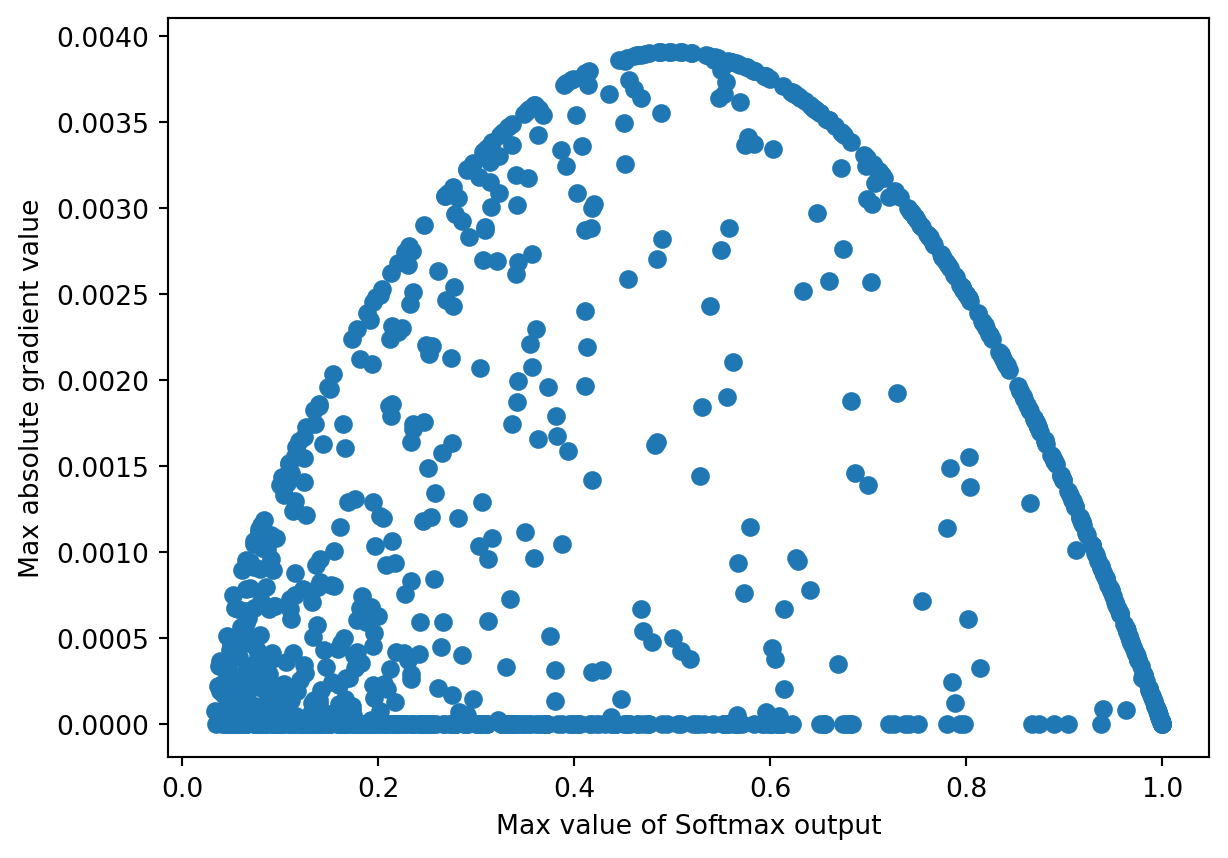
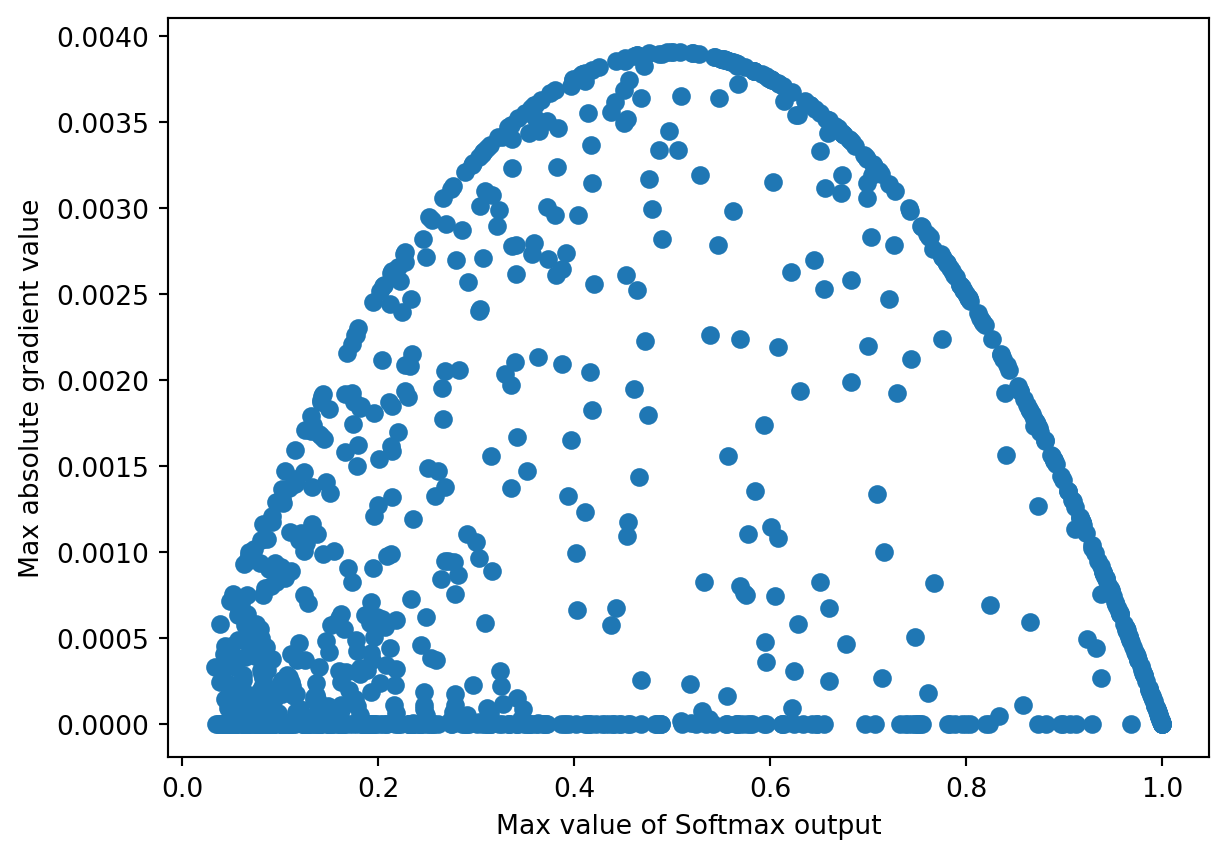
fix citation

diff --git a/multi_head_20240311.html b/multi_head_20240311.html
@@ -228,8 +228,8 @@
 <div class="page-columns page-rows-contents page-layout-article" id="quarto-content">
 <main class="content" id="quarto-document-content">
 
-<p>自從 “Attention is All You need” <span class="citation" data-cites="vaswani_attention_2017">[@vaswani_attention_2017]</span> 這篇文章發佈之後，注意力機制開始廣爲人知。雖然一開始注意力機制被應用於自然語言處理領域，但人們很快發現它也能夠用於處理圖像、點雲等數據結構，並且取得非常好的效果。</p>
-<p>本文介紹如何用 PyTorch 實現文章 <span class="citation" data-cites="vaswani_attention_2017">[@vaswani_attention_2017]</span> 提出的 multi-head attention（MHA）。MHA 是 scaled dot-product attention（SDPA）<span class="citation" data-cites="vaswani_attention_2017 Bahdanau2014NeuralMT">[@vaswani_attention_2017; @Bahdanau2014NeuralMT]</span> 的改進。既然 MHA 是 SDPA 的 multi-head 版，那麼也許將 SDPA 稱爲單頭注意力會比較形象。讓我們先從單頭注意力開始。</p>
+<p>自從 “Attention is All You need” <span class="citation" data-cites="vaswani_attention_2017"><a href="#ref-vaswani_attention_2017" role="doc-biblioref">[1]</a></span> 這篇文章發佈之後，注意力機制開始廣爲人知。雖然一開始注意力機制被應用於自然語言處理領域，但人們很快發現它也能夠用於處理圖像、點雲等數據結構，並且取得非常好的效果。</p>
+<p>本文介紹如何用 PyTorch 實現文章 <span class="citation" data-cites="vaswani_attention_2017"><a href="#ref-vaswani_attention_2017" role="doc-biblioref">[1]</a></span> 提出的 multi-head attention（MHA）。MHA 是 scaled dot-product attention（SDPA）<span class="citation" data-cites="vaswani_attention_2017 Bahdanau2014NeuralMT"><a href="#ref-vaswani_attention_2017" role="doc-biblioref">[1]</a>, <a href="#ref-Bahdanau2014NeuralMT" role="doc-biblioref">[2]</a></span> 的改進。既然 MHA 是 SDPA 的 multi-head 版，那麼也許將 SDPA 稱爲單頭注意力會比較形象。讓我們先從單頭注意力開始。</p>
 <section class="level2" id="scaled-dot-product-attention">
 <h2 class="anchored" data-anchor-id="scaled-dot-product-attention">Scaled Dot-product Attention</h2>
 <p>SDPA 的計算公式如下：</p>
@@ -264,11 +264,11 @@
 <span id="cb1-19"><a aria-hidden="true" href="#cb1-19" tabindex="-1"></a>ax.set_xticklabels([<span class="ss">f'</span><span class="sc">{</span>i<span class="sc">:.2f}</span><span class="ss">'</span> <span class="cf">for</span> s, i <span class="kw">in</span> samples])</span>
 <span id="cb1-20"><a aria-hidden="true" href="#cb1-20" tabindex="-1"></a>fig.colorbar(cax)<span class="op">;</span></span></code><button class="code-copy-button" title="Copy to Clipboard"><i class="bi"></i></button></pre></div>
 <div class="cell-output cell-output-stderr">
-<pre><code>/tmp/ipykernel_3631103/3983590926.py:13: DeprecationWarning:
+<pre><code>/tmp/ipykernel_3636085/3983590926.py:13: DeprecationWarning:
 
 __array__ implementation doesn't accept a copy keyword, so passing copy=False failed. __array__ must implement 'dtype' and 'copy' keyword arguments. To learn more, see the migration guide https://numpy.org/devdocs/numpy_2_0_migration_guide.html#adapting-to-changes-in-the-copy-keyword
 
-/tmp/ipykernel_3631103/3983590926.py:19: UserWarning:
+/tmp/ipykernel_3636085/3983590926.py:19: UserWarning:
 
 set_ticklabels() should only be used with a fixed number of ticks, i.e. after set_ticks() or using a FixedLocator.
 </code></pre>
@@ -392,7 +392,7 @@ Figure 2: 圖像的橫軸爲 Softmax 的輸出最大值。當該數值接近最
 <p>在充分理解清楚 SDPA 的計算公式的前提下，用 PyTorch 實現它就不困難。需要注意的是 <a class="quarto-xref" href="#eq-sdpa">Equation 1</a> 中沒有體現 attention mask，但我們要在代碼實現中支持它。attention mask 用於在訓練中阻止模型看到未來的 token，這對訓練聊天機器人、機器翻譯模型等生成式模型是必要的。</p>
 <p>在實現中，<code>mask</code> 矩陣的值會被加到注意力矩陣上。如果 <code>mask</code> 矩陣中有一個值非常小（接近 <span class="math inline">\(-\infty\)</span>），那麼對應的注意力就會在 <code>softmax</code> 中被抑制。</p>
 <p>下列代碼實現了 scaled dot-product attention：</p>
-<div class="cell" data-execution_count="3" id="ca764a75">
+<div class="cell" data-execution_count="3" id="b696023c">
 <div class="sourceCode cell-code" id="cb4"><pre class="sourceCode python code-with-copy"><code class="sourceCode python"><span id="cb4-1"><a aria-hidden="true" href="#cb4-1" tabindex="-1"></a><span class="im">import</span> torch</span>
 <span id="cb4-2"><a aria-hidden="true" href="#cb4-2" tabindex="-1"></a><span class="im">import</span> torch.nn <span class="im">as</span> nn</span>
 <span id="cb4-3"><a aria-hidden="true" href="#cb4-3" tabindex="-1"></a><span class="im">import</span> torch.nn.functional <span class="im">as</span> F</span>
@@ -410,7 +410,7 @@ Figure 2: 圖像的橫軸爲 Softmax 的輸出最大值。當該數值接近最
 <span id="cb4-15"><a aria-hidden="true" href="#cb4-15" tabindex="-1"></a>    <span class="cf">return</span> ret, attn_weights</span></code><button class="code-copy-button" title="Copy to Clipboard"><i class="bi"></i></button></pre></div>
 </div>
 <p>讓我們看看實現的 <code>my_scaled_dot_product_attention</code> 函數能不能正常運行：</p>
-<div class="cell" data-execution_count="4" id="84cbeab8">
+<div class="cell" data-execution_count="4" id="c7f01d53">
 <div class="sourceCode cell-code" id="cb5"><pre class="sourceCode python code-with-copy"><code class="sourceCode python"><span id="cb5-1"><a aria-hidden="true" href="#cb5-1" tabindex="-1"></a>batch_size <span class="op">=</span> <span class="dv">1</span></span>
 <span id="cb5-2"><a aria-hidden="true" href="#cb5-2" tabindex="-1"></a>length <span class="op">=</span> <span class="dv">2</span></span>
 <span id="cb5-3"><a aria-hidden="true" href="#cb5-3" tabindex="-1"></a>embed_dim <span class="op">=</span> <span class="dv">4</span></span>
@@ -422,14 +422,14 @@ Figure 2: 圖像的橫軸爲 Softmax 的輸出最大值。當該數值接近最
 <span id="cb5-9"><a aria-hidden="true" href="#cb5-9" tabindex="-1"></a><span class="bu">print</span>(<span class="st">'attention 操作返回結果：'</span>, ret)</span>
 <span id="cb5-10"><a aria-hidden="true" href="#cb5-10" tabindex="-1"></a><span class="bu">print</span>(<span class="st">'attention 矩陣爲：'</span>, attn_weights)</span></code><button class="code-copy-button" title="Copy to Clipboard"><i class="bi"></i></button></pre></div>
 <div class="cell-output cell-output-stdout">
-<pre><code>attention 操作返回結果： tensor([[[0.1517, 0.4868, 0.3622, 0.5209],
-         [0.2097, 0.4212, 0.5240, 0.5255]]])
-attention 矩陣爲： tensor([[[0.4420, 0.5580],
-         [0.6800, 0.3200]]])</code></pre>
+<pre><code>attention 操作返回結果： tensor([[[0.1592, 0.2905, 0.4648, 0.5226],
+         [0.1702, 0.2726, 0.4972, 0.5158]]])
+attention 矩陣爲： tensor([[[0.4483, 0.5517],
+         [0.4844, 0.5156]]])</code></pre>
 </div>
 </div>
 <p>一個檢查實現正確性的小技巧是，觀察返回 attention 矩陣的各列之和是否爲 1。如果不爲 1，說明實現有問題。</p>
-<div class="cell" data-execution_count="5" id="1756688d">
+<div class="cell" data-execution_count="5" id="bb874d77">
 <div class="sourceCode cell-code" id="cb7"><pre class="sourceCode python code-with-copy"><code class="sourceCode python"><span id="cb7-1"><a aria-hidden="true" href="#cb7-1" tabindex="-1"></a><span class="cf">assert</span> torch.<span class="bu">all</span>(attn_weights.<span class="bu">sum</span>(<span class="op">-</span><span class="dv">1</span>) <span class="op">-</span> <span class="dv">1</span> <span class="op">&lt;</span> <span class="fl">1e-6</span>)</span></code><button class="code-copy-button" title="Copy to Clipboard"><i class="bi"></i></button></pre></div>
 </div>
 <p>在準備好 scaled dot product attention 的基礎上，我們便可以着手實現 multi-head attention 了。</p>
@@ -447,7 +447,7 @@ attention 矩陣爲： tensor([[[0.4420, 0.5580],
 </ol>
 <p>通過在多個 head 上執行 attention，MHA 允許模型在不同的子空間收集不同位置的信息，增加了 attention 機制的表達能力。</p>
 <p>代碼實現如下：</p>
-<div class="cell" data-execution_count="6" id="88f2b3d8">
+<div class="cell" data-execution_count="6" id="551b1788">
 <div class="sourceCode cell-code" id="cb8"><pre class="sourceCode python code-with-copy"><code class="sourceCode python"><span id="cb8-1"><a aria-hidden="true" href="#cb8-1" tabindex="-1"></a><span class="kw">class</span> MyMultiheadAttention(nn.Module):</span>
 <span id="cb8-2"><a aria-hidden="true" href="#cb8-2" tabindex="-1"></a>    <span class="kw">def</span> <span class="fu">__init__</span>(</span>
 <span id="cb8-3"><a aria-hidden="true" href="#cb8-3" tabindex="-1"></a>        <span class="va">self</span>,</span>
@@ -491,7 +491,7 @@ attention 矩陣爲： tensor([[[0.4420, 0.5580],
 <span id="cb8-41"><a aria-hidden="true" href="#cb8-41" tabindex="-1"></a>        <span class="cf">return</span> out, attn_weights</span></code><button class="code-copy-button" title="Copy to Clipboard"><i class="bi"></i></button></pre></div>
 </div>
 <p>首先，我們先比較一下本文實現的 multi-head attention 和 torch 官方實現的參數設置。我們將會看到所有參數名稱和參數尺寸都是一致的。這表明我們的 multi-head attention 與 torch 的官方實現兼容。</p>
-<div class="cell" data-execution_count="7" id="6c33cd56">
+<div class="cell" data-execution_count="7" id="d1bea707">
 <div class="sourceCode cell-code" id="cb9"><pre class="sourceCode python code-with-copy"><code class="sourceCode python"><span id="cb9-1"><a aria-hidden="true" href="#cb9-1" tabindex="-1"></a>batch_size <span class="op">=</span> <span class="dv">2</span></span>
 <span id="cb9-2"><a aria-hidden="true" href="#cb9-2" tabindex="-1"></a>embed_dim <span class="op">=</span> <span class="dv">16</span></span>
 <span id="cb9-3"><a aria-hidden="true" href="#cb9-3" tabindex="-1"></a>num_heads <span class="op">=</span> <span class="dv">4</span></span>
@@ -516,14 +516,14 @@ out_proj.bias torch.Size([16])</code></pre>
 </div>
 </div>
 <p>接下來，我們檢查我們實現的 MHA 和 torch 版本 MHA 的輸出是否完全一致。在進行比較之前，我們先進行參數的複製，保持兩個模塊的參數完全相同。</p>
-<div class="cell" data-execution_count="8" id="06b83ab0">
+<div class="cell" data-execution_count="8" id="b10a76e1">
 <div class="sourceCode cell-code" id="cb11"><pre class="sourceCode python code-with-copy"><code class="sourceCode python"><span id="cb11-1"><a aria-hidden="true" href="#cb11-1" tabindex="-1"></a>my_mha_parameters <span class="op">=</span> <span class="bu">dict</span>(my_mha.named_parameters())</span>
 <span id="cb11-2"><a aria-hidden="true" href="#cb11-2" tabindex="-1"></a><span class="cf">for</span> n, p <span class="kw">in</span> torch_mha.named_parameters():</span>
 <span id="cb11-3"><a aria-hidden="true" href="#cb11-3" tabindex="-1"></a>    my_mha_parameters[n].data.copy_(p)</span>
 <span id="cb11-4"><a aria-hidden="true" href="#cb11-4" tabindex="-1"></a>    <span class="cf">assert</span> torch.<span class="bu">all</span>(p <span class="op">==</span> my_mha_parameters[n])</span></code><button class="code-copy-button" title="Copy to Clipboard"><i class="bi"></i></button></pre></div>
 </div>
 <p>下列代碼對函數的輸出進行檢查：</p>
-<div class="cell" data-execution_count="9" id="f1287978">
+<div class="cell" data-execution_count="9" id="2391b7f8">
 <div class="sourceCode cell-code" id="cb12"><pre class="sourceCode python code-with-copy"><code class="sourceCode python"><span id="cb12-1"><a aria-hidden="true" href="#cb12-1" tabindex="-1"></a>query <span class="op">=</span> torch.rand((length, batch_size, embed_dim))</span>
 <span id="cb12-2"><a aria-hidden="true" href="#cb12-2" tabindex="-1"></a>key <span class="op">=</span> torch.rand((length, batch_size, embed_dim))</span>
 <span id="cb12-3"><a aria-hidden="true" href="#cb12-3" tabindex="-1"></a>value <span class="op">=</span> torch.rand((length, batch_size, embed_dim))</span>
@@ -574,7 +574,7 @@ out_proj.bias torch.Size([16])</code></pre>
 <div class="callout-body-container callout-body">
 <p>MHA 的參數量與 head 的數量無關，這從代碼中也能很容易看出來。</p>
 <p>實驗也驗證了這一點。</p>
-<div class="cell" data-execution_count="10" id="3d038e0b">
+<div class="cell" data-execution_count="10" id="97dbf0ab">
 <div class="sourceCode cell-code" id="cb14"><pre class="sourceCode python code-with-copy"><code class="sourceCode python"><span id="cb14-1"><a aria-hidden="true" href="#cb14-1" tabindex="-1"></a>embed_dim <span class="op">=</span> <span class="dv">16</span></span>
 <span id="cb14-2"><a aria-hidden="true" href="#cb14-2" tabindex="-1"></a>num_heads <span class="op">=</span> <span class="dv">4</span></span>
 <span id="cb14-3"><a aria-hidden="true" href="#cb14-3" tabindex="-1"></a>mha1 <span class="op">=</span> nn.MultiheadAttention(embed_dim, num_heads)</span>
@@ -633,13 +633,22 @@ out_proj.bias torch.Size([16])</code></pre>
 <p>推薦閱讀：</p>
 <ul>
 <li><a href="https://pytorch.org/docs/2.2/generated/torch.nn.functional.scaled_dot_product_attention.html#torch.nn.functional.scaled_dot_product_attention">torch 官方的 scaled dot-product attention 文檔</a>中簡要介紹了一種 scaled dot-product attention 的 Python 實現方式。</li>
-<li>論文 MQA <span class="citation" data-cites="Shazeer2019MQA">[@Shazeer2019MQA]</span> 中的 Background 一節對各類 Attention 有詳細介紹，推薦一讀。</li>
+<li>論文 MQA <span class="citation" data-cites="Shazeer2019MQA"><a href="#ref-Shazeer2019MQA" role="doc-biblioref">[3]</a></span> 中的 Background 一節對各類 Attention 有詳細介紹，推薦一讀。</li>
 </ul>
 </section>
-<section class="level2" id="參考文獻">
-<h2 class="anchored" data-anchor-id="參考文獻">參考文獻</h2>
+<section class="level2 unnumbered" id="參考文獻">
 </section>
-</main>
+<div class="default" id="quarto-appendix"><section class="quarto-appendix-contents" id="quarto-bibliography" role="doc-bibliography"><h2 class="anchored quarto-appendix-heading">參考文獻</h2><div class="references csl-bib-body" data-entry-spacing="0" id="refs" role="list">
+<div class="csl-entry" id="ref-vaswani_attention_2017" role="listitem">
+<div class="csl-left-margin">[1] </div><div class="csl-right-inline">A. Vaswani <em>et al.</em>, <span>“Attention is all you need,”</span> <em>Advances in Neural Information Processing Systems</em>, vol. 30, 2017, Available: <a href="https://arxiv.org/abs/1706.03762">https://arxiv.org/abs/1706.03762</a></div>
+</div>
+<div class="csl-entry" id="ref-Bahdanau2014NeuralMT" role="listitem">
+<div class="csl-left-margin">[2] </div><div class="csl-right-inline">D. Bahdanau, K. Cho, and Y. Bengio, <span>“Neural machine translation by jointly learning to align and translate,”</span> <em>arXiv preprint arXiv:1409.0473</em>, 2014, Available: <a href="https://arxiv.org/abs/1409.0473">https://arxiv.org/abs/1409.0473</a></div>
+</div>
+<div class="csl-entry" id="ref-Shazeer2019MQA" role="listitem">
+<div class="csl-left-margin">[3] </div><div class="csl-right-inline">N. Shazeer, <span>“Fast transformer decoding: One write-head is all you need,”</span> <em>arXiv preprint arXiv:1911.02150</em>, 2019, Available: <a href="https://arxiv.org/abs/1911.02150">https://arxiv.org/abs/1911.02150</a></div>
+</div>
+</div></section></div></main>
 <!-- /main column -->
 <script id="quarto-html-after-body" type="application/javascript">
 window.document.addEventListener("DOMContentLoaded", function (event) {

diff --git a/multi_head_20240311_zh-cn.html b/multi_head_20240311_zh-cn.html
@@ -228,8 +228,8 @@
 <div class="page-columns page-rows-contents page-layout-article" id="quarto-content">
 <main class="content" id="quarto-document-content">
 
-<p>自从 “Attention is All You need” <span class="citation" data-cites="vaswani_attention_2017">[@vaswani_attention_2017]</span> 这篇文章发布之后，注意力机制开始广为人知。虽然一开始注意力机制被应用于自然语言处理领域，但人们很快发现它也能够用于处理图像、点云等数据结构，并且取得非常好的效果。</p>
-<p>本文介绍如何用 PyTorch 实现文章 <span class="citation" data-cites="vaswani_attention_2017">[@vaswani_attention_2017]</span> 提出的 multi-head attention（MHA）。MHA 是 scaled dot-product attention（SDPA）<span class="citation" data-cites="vaswani_attention_2017 Bahdanau2014NeuralMT">[@vaswani_attention_2017; @Bahdanau2014NeuralMT]</span> 的改进。既然 MHA 是 SDPA 的 multi-head 版，那么也许将 SDPA 称为单头注意力会比较形象。让我们先从单头注意力开始。</p>
+<p>自从 “Attention is All You need” <span class="citation" data-cites="vaswani_attention_2017"><a href="#ref-vaswani_attention_2017" role="doc-biblioref">[1]</a></span> 这篇文章发布之后，注意力机制开始广为人知。虽然一开始注意力机制被应用于自然语言处理领域，但人们很快发现它也能够用于处理图像、点云等数据结构，并且取得非常好的效果。</p>
+<p>本文介绍如何用 PyTorch 实现文章 <span class="citation" data-cites="vaswani_attention_2017"><a href="#ref-vaswani_attention_2017" role="doc-biblioref">[1]</a></span> 提出的 multi-head attention（MHA）。MHA 是 scaled dot-product attention（SDPA）<span class="citation" data-cites="vaswani_attention_2017 Bahdanau2014NeuralMT"><a href="#ref-vaswani_attention_2017" role="doc-biblioref">[1]</a>, <a href="#ref-Bahdanau2014NeuralMT" role="doc-biblioref">[2]</a></span> 的改进。既然 MHA 是 SDPA 的 multi-head 版，那么也许将 SDPA 称为单头注意力会比较形象。让我们先从单头注意力开始。</p>
 <section class="level2" id="scaled-dot-product-attention">
 <h2 class="anchored" data-anchor-id="scaled-dot-product-attention">Scaled Dot-product Attention</h2>
 <p>SDPA 的计算公式如下：</p>
@@ -264,11 +264,11 @@
 <span id="cb1-19"><a aria-hidden="true" href="#cb1-19" tabindex="-1"></a>ax.set_xticklabels([<span class="ss">f'</span><span class="sc">{</span>i<span class="sc">:.2f}</span><span class="ss">'</span> <span class="cf">for</span> s, i <span class="kw">in</span> samples])</span>
 <span id="cb1-20"><a aria-hidden="true" href="#cb1-20" tabindex="-1"></a>fig.colorbar(cax)<span class="op">;</span></span></code><button class="code-copy-button" title="Copy to Clipboard"><i class="bi"></i></button></pre></div>
 <div class="cell-output cell-output-stderr">
-<pre><code>/tmp/ipykernel_3631103/3983590926.py:13: DeprecationWarning:
+<pre><code>/tmp/ipykernel_3636085/3983590926.py:13: DeprecationWarning:
 
 __array__ implementation doesn't accept a copy keyword, so passing copy=False failed. __array__ must implement 'dtype' and 'copy' keyword arguments. To learn more, see the migration guide https://numpy.org/devdocs/numpy_2_0_migration_guide.html#adapting-to-changes-in-the-copy-keyword
 
-/tmp/ipykernel_3631103/3983590926.py:19: UserWarning:
+/tmp/ipykernel_3636085/3983590926.py:19: UserWarning:
 
 set_ticklabels() should only be used with a fixed number of ticks, i.e. after set_ticks() or using a FixedLocator.
 </code></pre>
@@ -392,7 +392,7 @@ Figure 2: 图像的横轴为 Softmax 的输出最大值。当该数值接近最
 <p>在充分理解清楚 SDPA 的计算公式的前提下，用 PyTorch 实现它就不困难。需要注意的是 <a class="quarto-xref" href="#eq-sdpa">Equation 1</a> 中没有体现 attention mask，但我们要在代码实现中支持它。attention mask 用于在训练中阻止模型看到未来的 token，这对训练聊天机器人、机器翻译模型等生成式模型是必要的。</p>
 <p>在实现中，<code>mask</code> 矩阵的值会被加到注意力矩阵上。如果 <code>mask</code> 矩阵中有一个值非常小（接近 <span class="math inline">\(-\infty\)</span>），那么对应的注意力就会在 <code>softmax</code> 中被抑制。</p>
 <p>下列代码实现了 scaled dot-product attention：</p>
-<div class="cell" data-execution_count="3" id="ca764a75">
+<div class="cell" data-execution_count="3" id="b696023c">
 <div class="sourceCode cell-code" id="cb4"><pre class="sourceCode python code-with-copy"><code class="sourceCode python"><span id="cb4-1"><a aria-hidden="true" href="#cb4-1" tabindex="-1"></a><span class="im">import</span> torch</span>
 <span id="cb4-2"><a aria-hidden="true" href="#cb4-2" tabindex="-1"></a><span class="im">import</span> torch.nn <span class="im">as</span> nn</span>
 <span id="cb4-3"><a aria-hidden="true" href="#cb4-3" tabindex="-1"></a><span class="im">import</span> torch.nn.functional <span class="im">as</span> F</span>
@@ -410,7 +410,7 @@ Figure 2: 图像的横轴为 Softmax 的输出最大值。当该数值接近最
 <span id="cb4-15"><a aria-hidden="true" href="#cb4-15" tabindex="-1"></a>    <span class="cf">return</span> ret, attn_weights</span></code><button class="code-copy-button" title="Copy to Clipboard"><i class="bi"></i></button></pre></div>
 </div>
 <p>让我们看看实现的 <code>my_scaled_dot_product_attention</code> 函数能不能正常运行：</p>
-<div class="cell" data-execution_count="4" id="84cbeab8">
+<div class="cell" data-execution_count="4" id="c7f01d53">
 <div class="sourceCode cell-code" id="cb5"><pre class="sourceCode python code-with-copy"><code class="sourceCode python"><span id="cb5-1"><a aria-hidden="true" href="#cb5-1" tabindex="-1"></a>batch_size <span class="op">=</span> <span class="dv">1</span></span>
 <span id="cb5-2"><a aria-hidden="true" href="#cb5-2" tabindex="-1"></a>length <span class="op">=</span> <span class="dv">2</span></span>
 <span id="cb5-3"><a aria-hidden="true" href="#cb5-3" tabindex="-1"></a>embed_dim <span class="op">=</span> <span class="dv">4</span></span>
@@ -422,14 +422,14 @@ Figure 2: 图像的横轴为 Softmax 的输出最大值。当该数值接近最
 <span id="cb5-9"><a aria-hidden="true" href="#cb5-9" tabindex="-1"></a><span class="bu">print</span>(<span class="st">'attention 操作返回结果：'</span>, ret)</span>
 <span id="cb5-10"><a aria-hidden="true" href="#cb5-10" tabindex="-1"></a><span class="bu">print</span>(<span class="st">'attention 矩阵为：'</span>, attn_weights)</span></code><button class="code-copy-button" title="Copy to Clipboard"><i class="bi"></i></button></pre></div>
 <div class="cell-output cell-output-stdout">
-<pre><code>attention 操作返回结果： tensor([[[0.1517, 0.4868, 0.3622, 0.5209],
-         [0.2097, 0.4212, 0.5240, 0.5255]]])
-attention 矩阵为： tensor([[[0.4420, 0.5580],
-         [0.6800, 0.3200]]])</code></pre>
+<pre><code>attention 操作返回结果： tensor([[[0.1592, 0.2905, 0.4648, 0.5226],
+         [0.1702, 0.2726, 0.4972, 0.5158]]])
+attention 矩阵为： tensor([[[0.4483, 0.5517],
+         [0.4844, 0.5156]]])</code></pre>
 </div>
 </div>
 <p>一个检查实现正确性的小技巧是，观察返回 attention 矩阵的各列之和是否为 1。如果不为 1，说明实现有问题。</p>
-<div class="cell" data-execution_count="5" id="1756688d">
+<div class="cell" data-execution_count="5" id="bb874d77">
 <div class="sourceCode cell-code" id="cb7"><pre class="sourceCode python code-with-copy"><code class="sourceCode python"><span id="cb7-1"><a aria-hidden="true" href="#cb7-1" tabindex="-1"></a><span class="cf">assert</span> torch.<span class="bu">all</span>(attn_weights.<span class="bu">sum</span>(<span class="op">-</span><span class="dv">1</span>) <span class="op">-</span> <span class="dv">1</span> <span class="op">&lt;</span> <span class="fl">1e-6</span>)</span></code><button class="code-copy-button" title="Copy to Clipboard"><i class="bi"></i></button></pre></div>
 </div>
 <p>在准备好 scaled dot product attention 的基础上，我们便可以着手实现 multi-head attention 了。</p>
@@ -447,7 +447,7 @@ attention 矩阵为： tensor([[[0.4420, 0.5580],
 </ol>
 <p>通过在多个 head 上执行 attention，MHA 允许模型在不同的子空间收集不同位置的信息，增加了 attention 机制的表达能力。</p>
 <p>代码实现如下：</p>
-<div class="cell" data-execution_count="6" id="88f2b3d8">
+<div class="cell" data-execution_count="6" id="551b1788">
 <div class="sourceCode cell-code" id="cb8"><pre class="sourceCode python code-with-copy"><code class="sourceCode python"><span id="cb8-1"><a aria-hidden="true" href="#cb8-1" tabindex="-1"></a><span class="kw">class</span> MyMultiheadAttention(nn.Module):</span>
 <span id="cb8-2"><a aria-hidden="true" href="#cb8-2" tabindex="-1"></a>    <span class="kw">def</span> <span class="fu">__init__</span>(</span>
 <span id="cb8-3"><a aria-hidden="true" href="#cb8-3" tabindex="-1"></a>        <span class="va">self</span>,</span>
@@ -491,7 +491,7 @@ attention 矩阵为： tensor([[[0.4420, 0.5580],
 <span id="cb8-41"><a aria-hidden="true" href="#cb8-41" tabindex="-1"></a>        <span class="cf">return</span> out, attn_weights</span></code><button class="code-copy-button" title="Copy to Clipboard"><i class="bi"></i></button></pre></div>
 </div>
 <p>首先，我们先比较一下本文实现的 multi-head attention 和 torch 官方实现的参数设置。我们将会看到所有参数名称和参数尺寸都是一致的。这表明我们的 multi-head attention 与 torch 的官方实现兼容。</p>
-<div class="cell" data-execution_count="7" id="6c33cd56">
+<div class="cell" data-execution_count="7" id="d1bea707">
 <div class="sourceCode cell-code" id="cb9"><pre class="sourceCode python code-with-copy"><code class="sourceCode python"><span id="cb9-1"><a aria-hidden="true" href="#cb9-1" tabindex="-1"></a>batch_size <span class="op">=</span> <span class="dv">2</span></span>
 <span id="cb9-2"><a aria-hidden="true" href="#cb9-2" tabindex="-1"></a>embed_dim <span class="op">=</span> <span class="dv">16</span></span>
 <span id="cb9-3"><a aria-hidden="true" href="#cb9-3" tabindex="-1"></a>num_heads <span class="op">=</span> <span class="dv">4</span></span>
@@ -516,14 +516,14 @@ out_proj.bias torch.Size([16])</code></pre>
 </div>
 </div>
 <p>接下来，我们检查我们实现的 MHA 和 torch 版本 MHA 的输出是否完全一致。在进行比较之前，我们先进行参数的复制，保持两个模块的参数完全相同。</p>
-<div class="cell" data-execution_count="8" id="06b83ab0">
+<div class="cell" data-execution_count="8" id="b10a76e1">
 <div class="sourceCode cell-code" id="cb11"><pre class="sourceCode python code-with-copy"><code class="sourceCode python"><span id="cb11-1"><a aria-hidden="true" href="#cb11-1" tabindex="-1"></a>my_mha_parameters <span class="op">=</span> <span class="bu">dict</span>(my_mha.named_parameters())</span>
 <span id="cb11-2"><a aria-hidden="true" href="#cb11-2" tabindex="-1"></a><span class="cf">for</span> n, p <span class="kw">in</span> torch_mha.named_parameters():</span>
 <span id="cb11-3"><a aria-hidden="true" href="#cb11-3" tabindex="-1"></a>    my_mha_parameters[n].data.copy_(p)</span>
 <span id="cb11-4"><a aria-hidden="true" href="#cb11-4" tabindex="-1"></a>    <span class="cf">assert</span> torch.<span class="bu">all</span>(p <span class="op">==</span> my_mha_parameters[n])</span></code><button class="code-copy-button" title="Copy to Clipboard"><i class="bi"></i></button></pre></div>
 </div>
 <p>下列代码对函数的输出进行检查：</p>
-<div class="cell" data-execution_count="9" id="f1287978">
+<div class="cell" data-execution_count="9" id="2391b7f8">
 <div class="sourceCode cell-code" id="cb12"><pre class="sourceCode python code-with-copy"><code class="sourceCode python"><span id="cb12-1"><a aria-hidden="true" href="#cb12-1" tabindex="-1"></a>query <span class="op">=</span> torch.rand((length, batch_size, embed_dim))</span>
 <span id="cb12-2"><a aria-hidden="true" href="#cb12-2" tabindex="-1"></a>key <span class="op">=</span> torch.rand((length, batch_size, embed_dim))</span>
 <span id="cb12-3"><a aria-hidden="true" href="#cb12-3" tabindex="-1"></a>value <span class="op">=</span> torch.rand((length, batch_size, embed_dim))</span>
@@ -574,7 +574,7 @@ out_proj.bias torch.Size([16])</code></pre>
 <div class="callout-body-container callout-body">
 <p>MHA 的参数量与 head 的数量无关，这从代码中也能很容易看出来。</p>
 <p>实验也验证了这一点。</p>
-<div class="cell" data-execution_count="10" id="3d038e0b">
+<div class="cell" data-execution_count="10" id="97dbf0ab">
 <div class="sourceCode cell-code" id="cb14"><pre class="sourceCode python code-with-copy"><code class="sourceCode python"><span id="cb14-1"><a aria-hidden="true" href="#cb14-1" tabindex="-1"></a>embed_dim <span class="op">=</span> <span class="dv">16</span></span>
 <span id="cb14-2"><a aria-hidden="true" href="#cb14-2" tabindex="-1"></a>num_heads <span class="op">=</span> <span class="dv">4</span></span>
 <span id="cb14-3"><a aria-hidden="true" href="#cb14-3" tabindex="-1"></a>mha1 <span class="op">=</span> nn.MultiheadAttention(embed_dim, num_heads)</span>
@@ -633,13 +633,22 @@ out_proj.bias torch.Size([16])</code></pre>
 <p>推荐阅读：</p>
 <ul>
 <li><a href="https://pytorch.org/docs/2.2/generated/torch.nn.functional.scaled_dot_product_attention.html#torch.nn.functional.scaled_dot_product_attention">torch 官方的 scaled dot-product attention 文档</a>中简要介绍了一种 scaled dot-product attention 的 Python 实现方式。</li>
-<li>论文 MQA <span class="citation" data-cites="Shazeer2019MQA">[@Shazeer2019MQA]</span> 中的 Background 一节对各类 Attention 有详细介绍，推荐一读。</li>
+<li>论文 MQA <span class="citation" data-cites="Shazeer2019MQA"><a href="#ref-Shazeer2019MQA" role="doc-biblioref">[3]</a></span> 中的 Background 一节对各类 Attention 有详细介绍，推荐一读。</li>
 </ul>
 </section>
-<section class="level2" id="參考文獻">
-<h2 class="anchored" data-anchor-id="參考文獻">参考文献</h2>
+<section class="level2 unnumbered" id="參考文獻">
 </section>
-</main>
+<div class="default" id="quarto-appendix"><section class="quarto-appendix-contents" id="quarto-bibliography" role="doc-bibliography"><h2 class="anchored quarto-appendix-heading">参考文献</h2><div class="references csl-bib-body" data-entry-spacing="0" id="refs" role="list">
+<div class="csl-entry" id="ref-vaswani_attention_2017" role="listitem">
+<div class="csl-left-margin">[1] </div><div class="csl-right-inline">A. Vaswani <em>et al.</em>, <span>“Attention is all you need,”</span> <em>Advances in Neural Information Processing Systems</em>, vol. 30, 2017, Available: <a href="https://arxiv.org/abs/1706.03762">https://arxiv.org/abs/1706.03762</a></div>
+</div>
+<div class="csl-entry" id="ref-Bahdanau2014NeuralMT" role="listitem">
+<div class="csl-left-margin">[2] </div><div class="csl-right-inline">D. Bahdanau, K. Cho, and Y. Bengio, <span>“Neural machine translation by jointly learning to align and translate,”</span> <em>arXiv preprint arXiv:1409.0473</em>, 2014, Available: <a href="https://arxiv.org/abs/1409.0473">https://arxiv.org/abs/1409.0473</a></div>
+</div>
+<div class="csl-entry" id="ref-Shazeer2019MQA" role="listitem">
+<div class="csl-left-margin">[3] </div><div class="csl-right-inline">N. Shazeer, <span>“Fast transformer decoding: One write-head is all you need,”</span> <em>arXiv preprint arXiv:1911.02150</em>, 2019, Available: <a href="https://arxiv.org/abs/1911.02150">https://arxiv.org/abs/1911.02150</a></div>
+</div>
+</div></section></div></main>
 <!-- /main column -->
 <script id="quarto-html-after-body" type="application/javascript">
 window.document.addEventListener("DOMContentLoaded", function (event) {